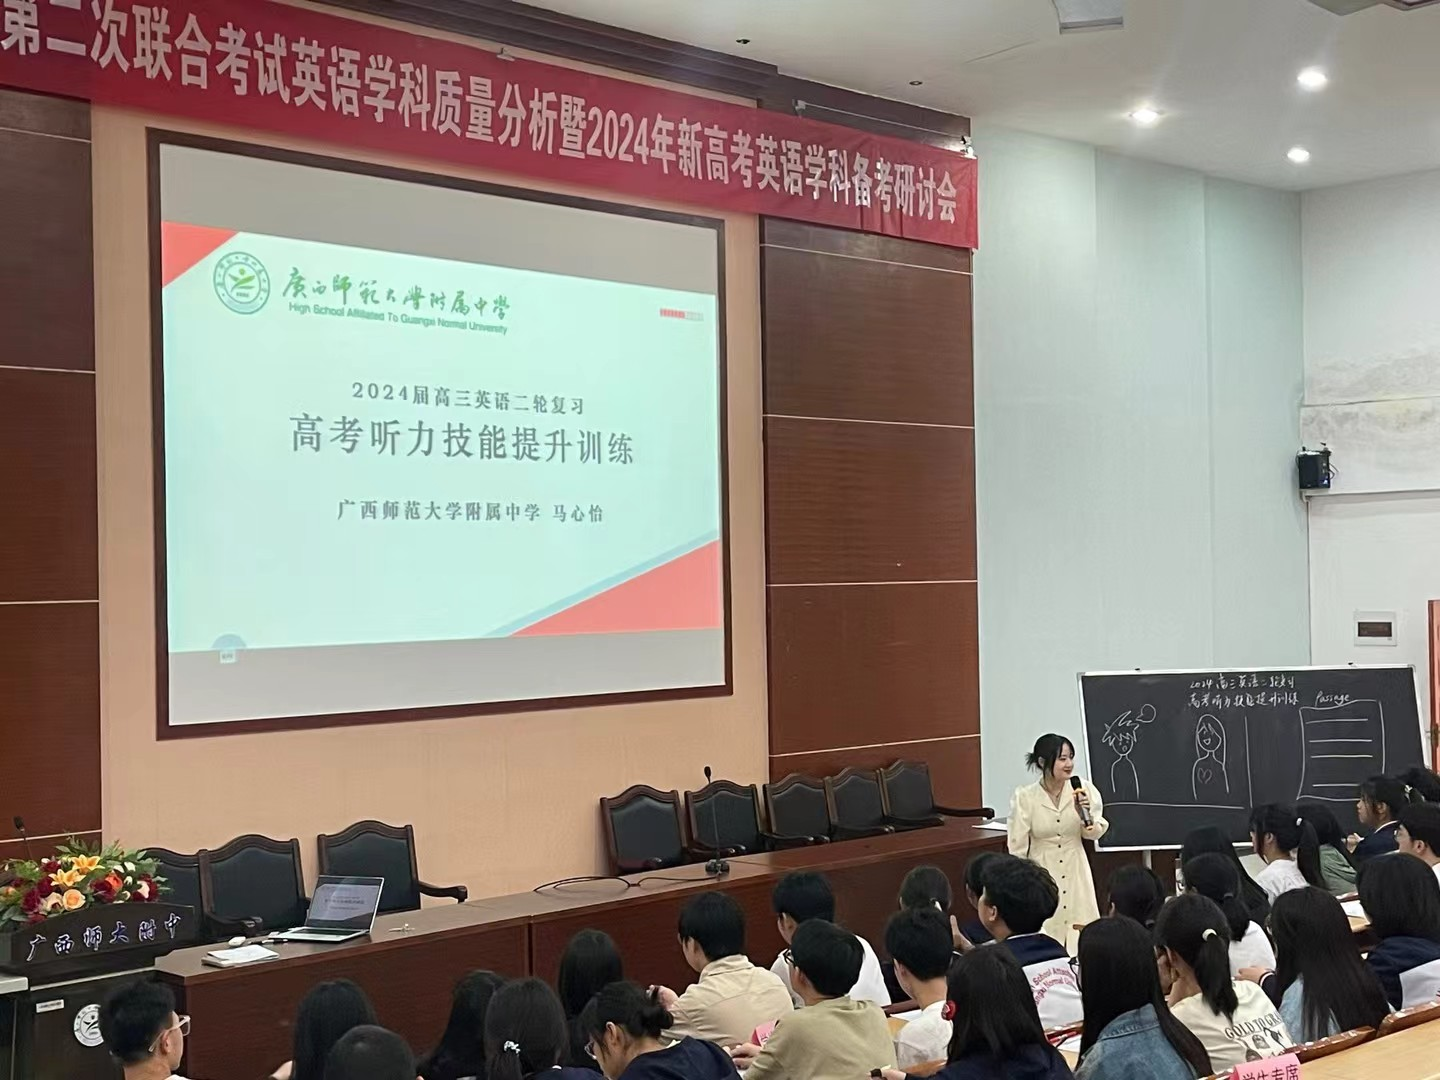
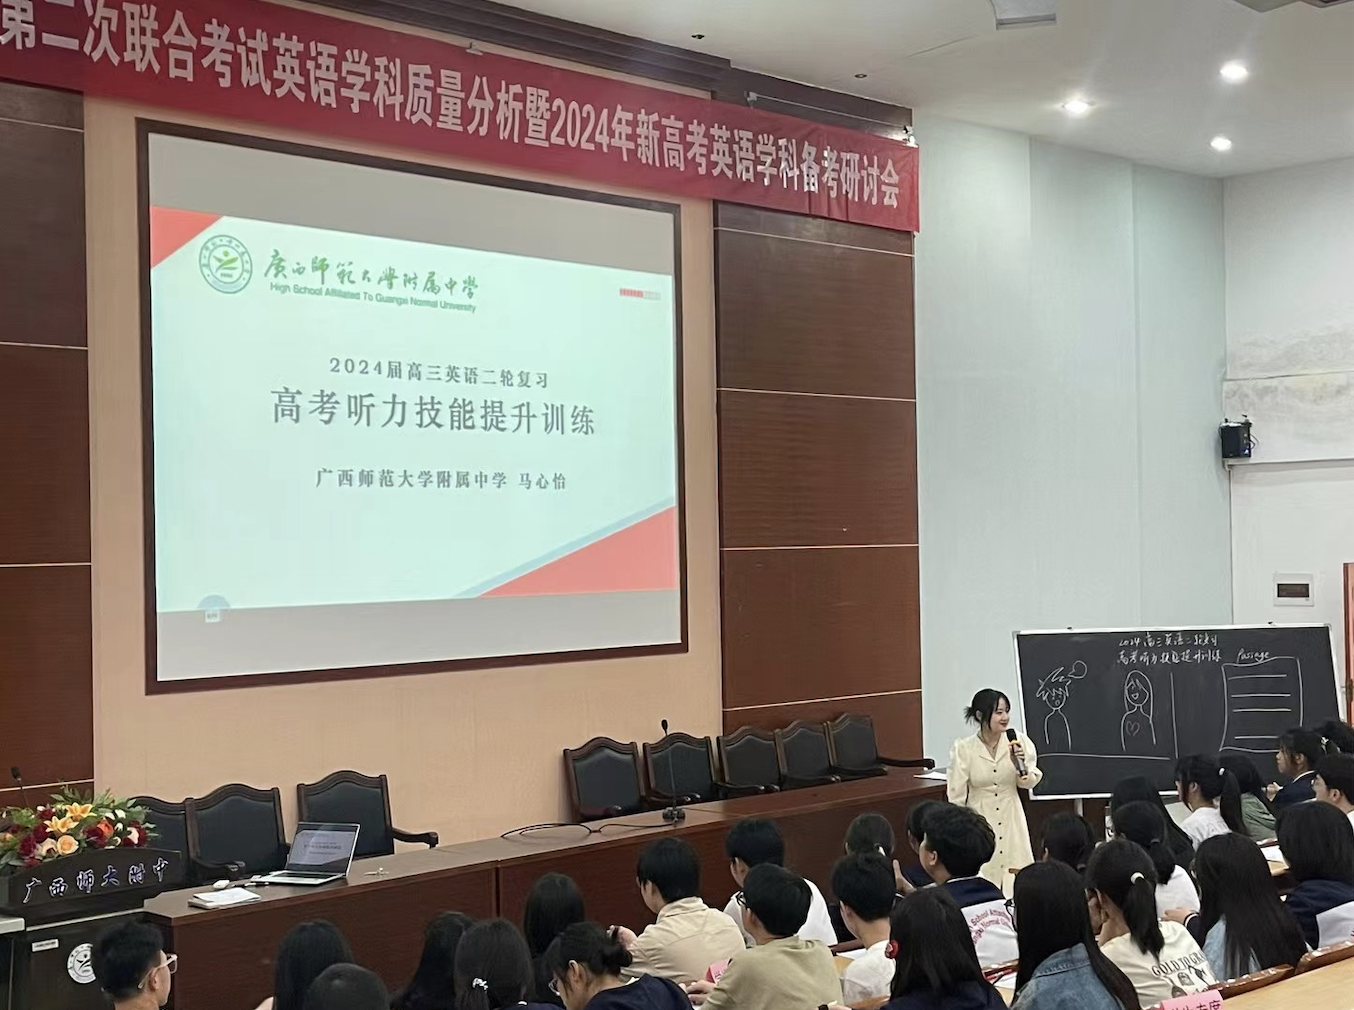
图片显示

diff --git a/index.html b/index.html
@@ -1047,7 +1047,7 @@ a.pdf-cover i {
             const galleryImages = [
                 { id: 1, src: 'images/my_photo1.jpg', alt: 'Teaching moment' },
                 { id: 2, src: 'images/my_photo2.jpg', alt: 'Conference' },
-                { id: 3, src: 'images/my_photo3.jpg', alt: 'Students' },
+                { id: 3, src: 'images/my_photo3.jpg', alt: 'Activities' },
                 { id: 4, src: 'images/my_photo4.jpg', alt: 'Workshop' },
                 { id: 5, src: 'images/my_photo5.jpg', alt: 'Students' },
                 { id: 6, src: 'images/my_photo6.jpg', alt: 'Students' },
